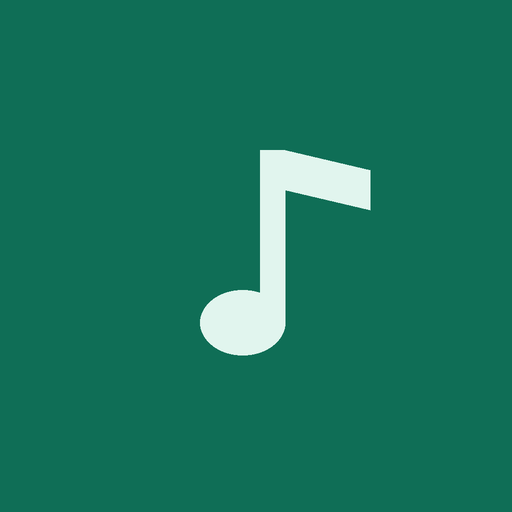
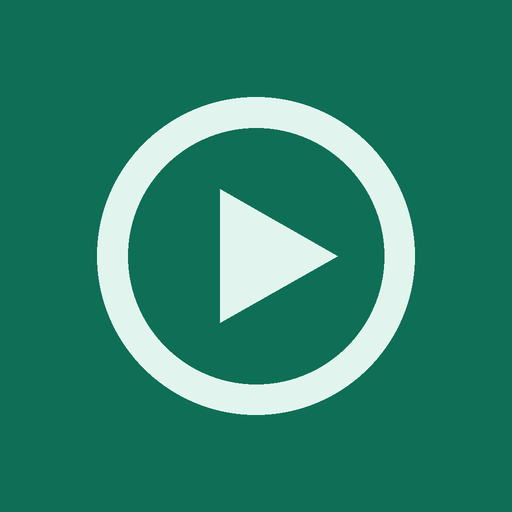
feat: icone de play, sem zoom de duplo toque e botoes da tela de bloqueio
- icone novo (play em circulo)
- touch-action: manipulation + maximum-scale=1 + bloqueio de pinca
- registra os handlers do Media Session de novo ao iniciar a faixa
- mostra a versao do app nas configuracoes

Changed region(s): [[0.1875, 0.1875, 0.8125, 0.8125]]

diff --git a/app.js b/app.js
@@ -1,4 +1,5 @@
 const POLL_MS = 3000;
+const APP_VERSION = "2026-10-12.2";
 const RESTART_AFTER_S = 3;
 const LINK = /^https?:\/\//i;
 
@@ -128,6 +129,8 @@ function updateMediaSession(track) {
     artist: track.channel,
     artwork: [{ src: mediaUrl(track.id, "thumb"), sizes: "480x360", type: "image/jpeg" }],
   });
+  // O iOS monta os botões da tela de bloqueio quando a sessão de mídia fica ativa, então registra de novo aqui.
+  setupMediaSession();
 }
 
 function updatePosition() {
@@ -398,6 +401,7 @@ function init() {
     } catch { setAddMessage("Não consegui ler a área de transferência. Cole no campo.", true); }
   });
 
+  $("app-version").textContent = `Versão ${APP_VERSION}`;
   $("open-settings").addEventListener("click", () => openSettings(false));
   $("settings-cancel").addEventListener("click", () => $("settings").close());
   $("settings-form").addEventListener("submit", (e) => {
@@ -419,6 +423,8 @@ function init() {
   });
   $("settings").addEventListener("cancel", (e) => { if (!baseUrl || !token) e.preventDefault(); });
 
+  // O Safari do iPhone ignora o viewport pra zoom de pinça; esse evento (só dele) bloqueia.
+  document.addEventListener("gesturestart", (e) => e.preventDefault());
   document.addEventListener("visibilitychange", () => { if (!document.hidden) loadTracks(); });
 
   renderAll();

diff --git a/index.html b/index.html
@@ -2,7 +2,7 @@
 <html lang="pt-BR">
 <head>
   <meta charset="utf-8">
-  <meta name="viewport" content="width=device-width, initial-scale=1, viewport-fit=cover">
+  <meta name="viewport" content="width=device-width, initial-scale=1, maximum-scale=1, viewport-fit=cover">
   <title>Música</title>
   <meta name="theme-color" content="#ffffff" media="(prefers-color-scheme: light)">
   <meta name="theme-color" content="#121413" media="(prefers-color-scheme: dark)">
@@ -98,6 +98,7 @@
         <input id="set-token" type="password" autocomplete="off">
       </label>
       <p class="muted">Ficam só neste aparelho. O Tailscale precisa estar conectado.</p>
+      <p id="app-version" class="muted"></p>
       <p id="settings-msg" class="notice" hidden></p>
       <div class="actions">
         <button type="button" id="settings-cancel" class="ghost">Cancelar</button>

diff --git a/style.css b/style.css
@@ -28,7 +28,8 @@
   }
 }
 
-* { box-sizing: border-box; }
+/* `manipulation` mantém rolar e tocar, mas tira o zoom de duplo toque do iOS. */
+* { box-sizing: border-box; touch-action: manipulation; }
 html, body { height: 100%; }
 body {
   margin: 0;
